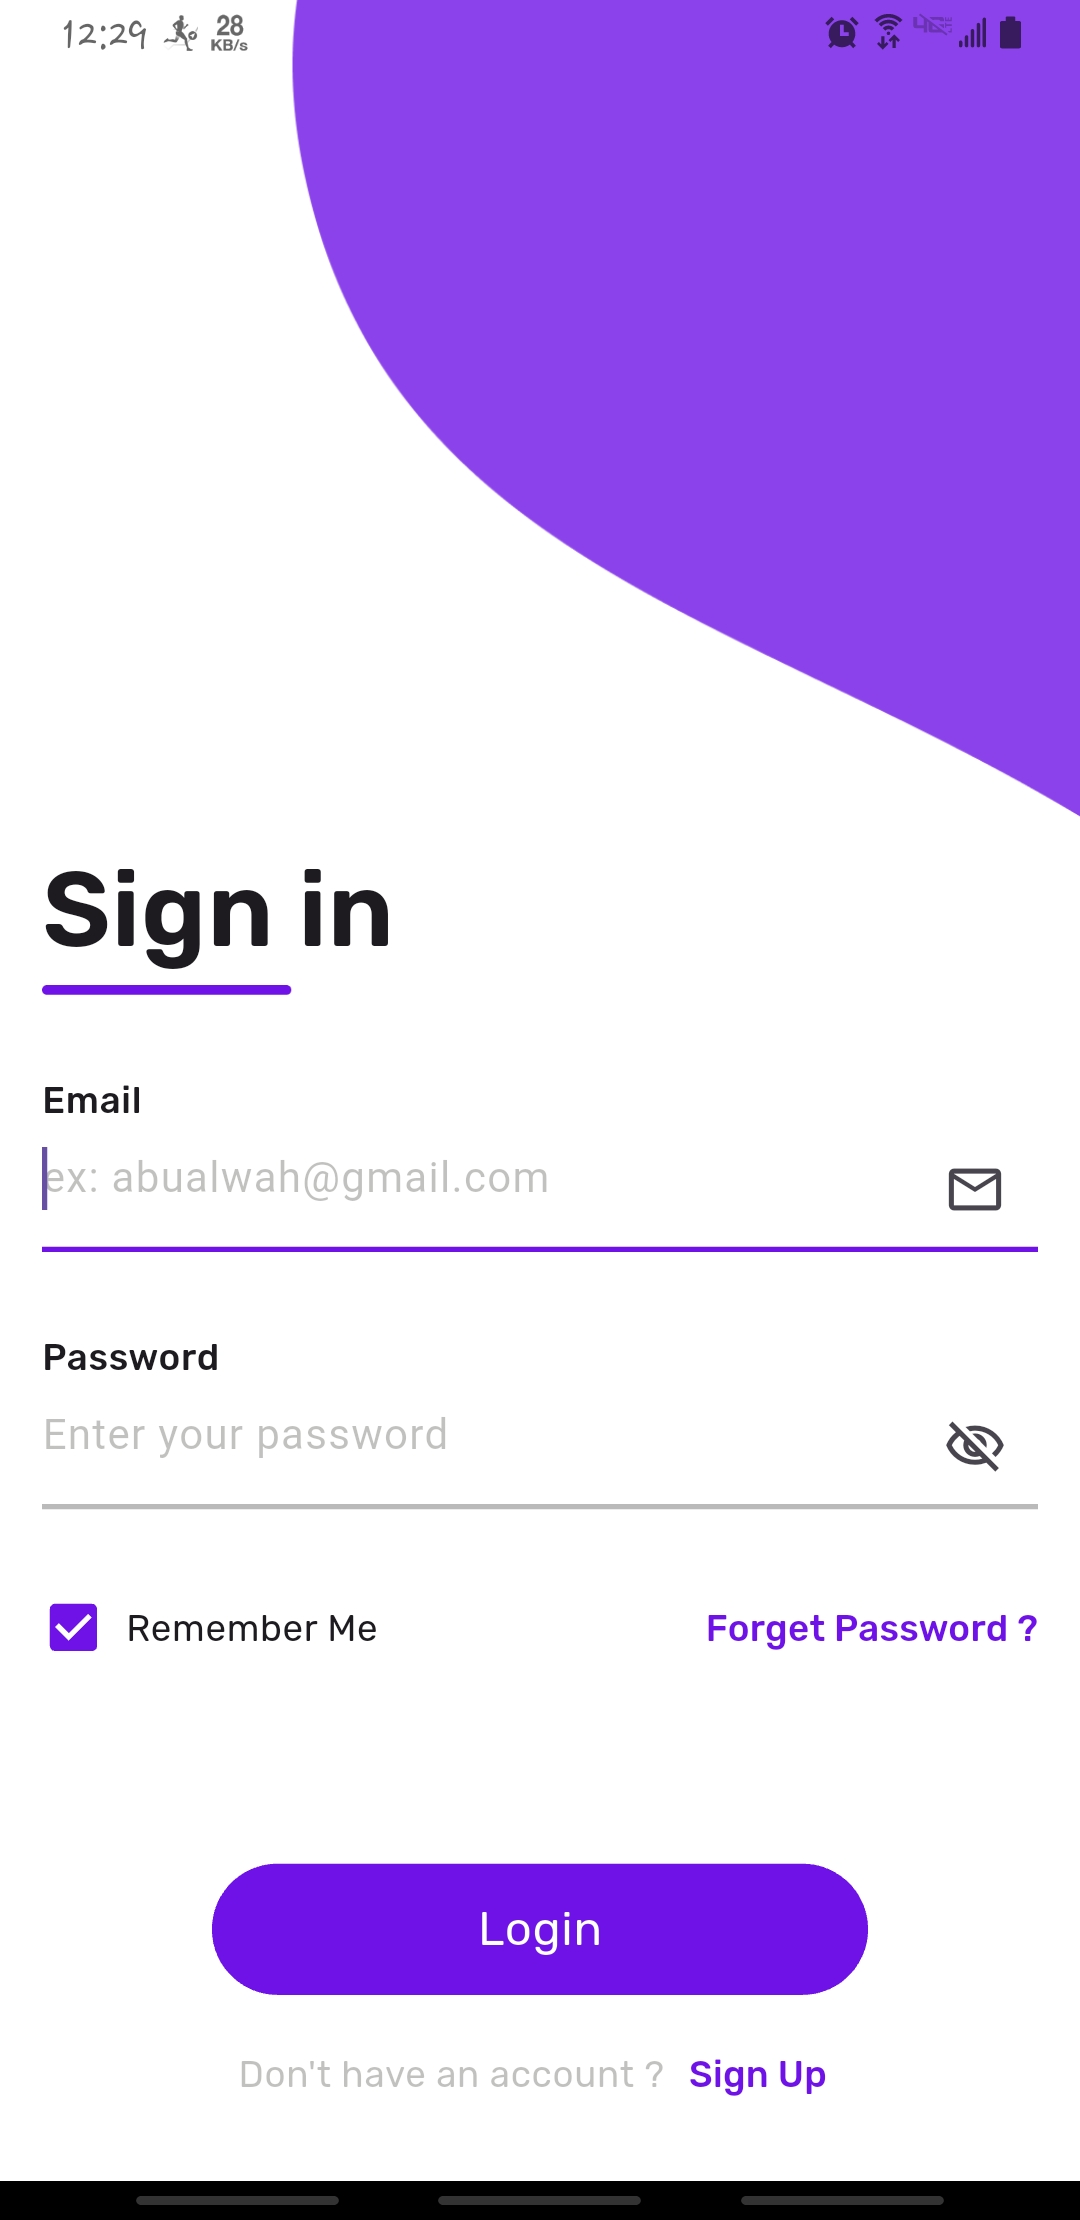
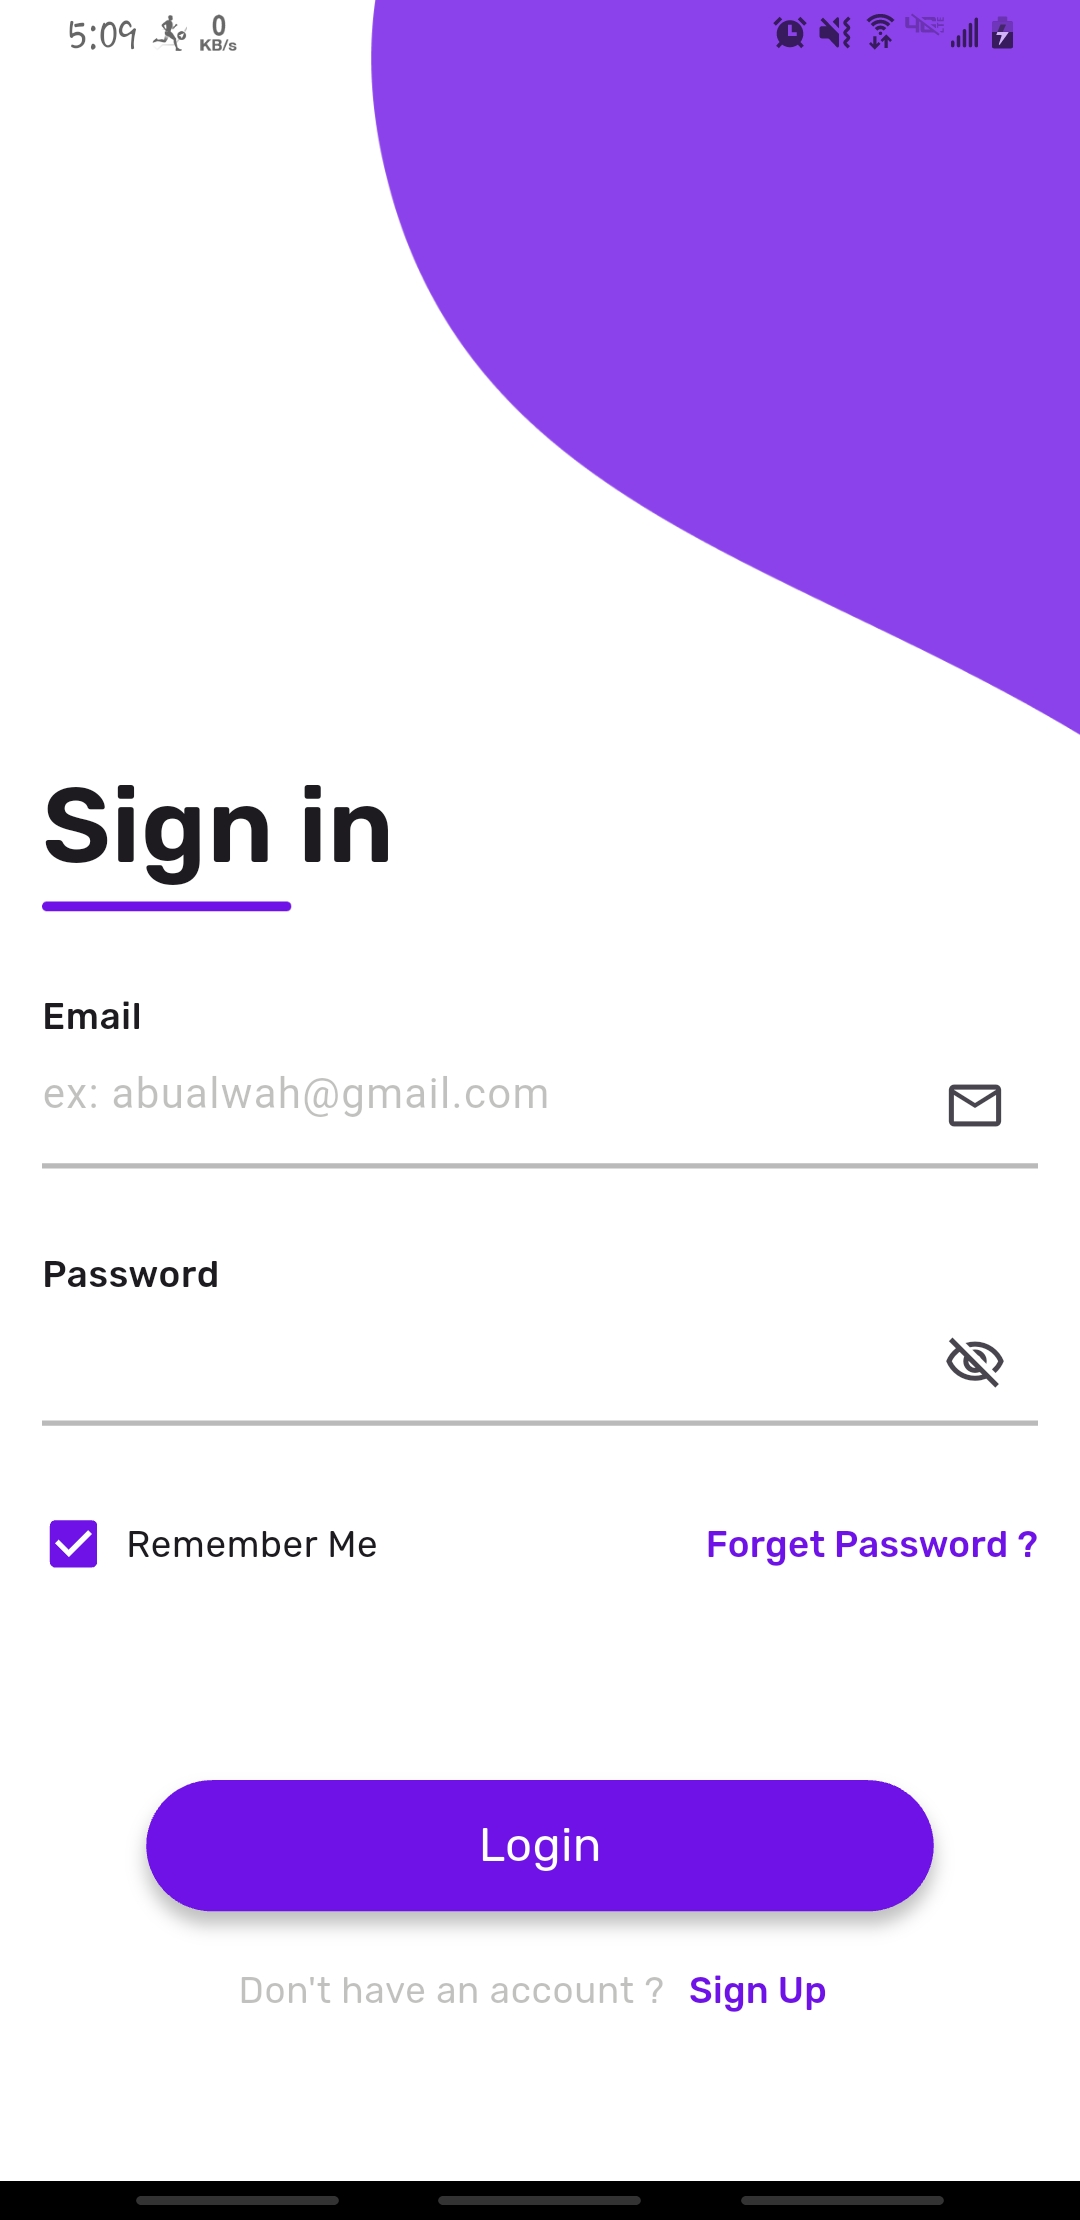
docs: update README with full authentication flow features, badges, and project layout.
- Added Flutter and Dart badges to top header.
- Documented complete screen structure including OTP and Reset Password.
- Updated project tree and screenshots showcase table.

diff --git a/lib/Screens/signin.dart b/lib/Screens/signin.dart
@@ -1,7 +1,7 @@
 import 'package:flutter/material.dart';
 import 'package:gap/gap.dart';
 import 'package:google_fonts/google_fonts.dart';
-import 'package:simple_login_app/Screens/forgetPassword.dart';
+import 'package:simple_login_app/Screens/recoverPassword.dart';
 import 'package:simple_login_app/Screens/signup.dart';
 import 'package:simple_login_app/Widgets/CustomAuthFooter.dart';
 import 'package:simple_login_app/Widgets/CustomAuthHeader.dart';
@@ -80,7 +80,7 @@ class _SigninState extends State<Signin> {
                       Navigator.push(
                         context,
                         MaterialPageRoute(
-                          builder: (context) => const Forgetpassword(),
+                          builder: (context) => const RecoverPassword(),
                         ),
                       );
                     },

diff --git a/lib/Screens/recoverPassword.dart b/lib/Screens/recoverPassword.dart
@@ -6,14 +6,14 @@ import 'package:simple_login_app/Widgets/CustomAuthTitleAndSubtitle.dart';
 import 'package:simple_login_app/Widgets/CustomElevatedButton.dart';
 import 'package:simple_login_app/Widgets/CustomTextFiled.dart';
 
-class Forgetpassword extends StatefulWidget {
-  const Forgetpassword({super.key});
+class RecoverPassword extends StatefulWidget {
+  const RecoverPassword({super.key});
 
   @override
-  State<Forgetpassword> createState() => _ForgetpasswordState();
+  State<RecoverPassword> createState() => _RecoverPasswordState();
 }
 
-class _ForgetpasswordState extends State<Forgetpassword> {
+class _RecoverPasswordState extends State<RecoverPassword> {
   final _formkey = GlobalKey<FormState>();
   final TextEditingController _emailController = TextEditingController();
 

diff --git a/lib/main.dart b/lib/main.dart
@@ -1,5 +1,4 @@
 import 'package:flutter/material.dart';
-import 'package:simple_login_app/Screens/forgetPassword.dart';
 import 'package:simple_login_app/Screens/welcom.dart';
 import 'package:flutter/services.dart';
 

diff --git a/README.md b/README.md
@@ -1,28 +1,46 @@
+<div align="center">
+
 # 📱 Mobile Auth App (Flutter)
 
-A clean and modern user authentication mobile application built with **Flutter** and **Dart**. This project focuses on beautiful, reusable UI widgets and a responsive layout for login and registration screens.
+[![Flutter](https://img.shields.io/badge/Flutter-02569B?style=for-the-badge&logo=flutter&logoColor=white)](https://flutter.dev)
+[![Dart](https://img.shields.io/badge/Dart-0175C2?style=for-the-badge&logo=dart&logoColor=white)](https://dart.dev)
 
+A clean, modern, and full-featured user authentication mobile application built with **Flutter** and **Dart**. This project features a complete authentication flow including onboarding, sign-in, sign-up, password recovery with OTP verification, and password reset screens—all built with modular, reusable components and dynamic state-driven UI interactions.
+
+</div>
 ---
 
-## 📸 Screenshots
+## 📸 Screenshots Showcase
 
-|                                           🚀 Welcome Screen                                           |                                           🔐 Sign In Screen                                           |                                           📝 Sign Up Screen                                           |
-| :---------------------------------------------------------------------------------------------------: | :---------------------------------------------------------------------------------------------------: | :---------------------------------------------------------------------------------------------------: |
-| <img src="https://github.com/AbuAlwah/flutter-login-ui/blob/main/assets/WelcomPage.jpg" width="250"/> | <img src="https://github.com/AbuAlwah/flutter-login-ui/blob/main/assets/SigninPage.jpg" width="250"/> | <img src="https://github.com/AbuAlwah/flutter-login-ui/blob/main/assets/SignupPage.jpg" width="250"/> |
+| 🚀 Welcome | 🔐 Sign In | 📝 Sign Up |
+| :---: | :---: | :---: |
+| <img src="https://github.com/AbuAlwah/flutter-login-ui/blob/17f9548654ec9f222dc44d3ebd3d8e368d3be78a/assets/WelcomPage.jpg" width="220"/> | <img src="https://github.com/AbuAlwah/flutter-login-ui/blob/17f9548654ec9f222dc44d3ebd3d8e368d3be78a/assets/SigninPage.jpg" width="220"/> | <img src="https://github.com/AbuAlwah/flutter-login-ui/blob/17f9548654ec9f222dc44d3ebd3d8e368d3be78a/assets/SignupPage.jpg" width="220"/> |
+
+| 🔑 Recover Password | 📩 OTP Verification | 🔄 Reset Password |
+| :---: | :---: | :---: |
+| <img src="https://github.com/AbuAlwah/flutter-login-ui/blob/main/assets/RecoverPassword.jpg" width="220"/> | <img src="https://github.com/AbuAlwah/flutter-login-ui/blob/main/assets/OTPVerification.jpg" width="220"/> | <img src="https://github.com/AbuAlwah/flutter-login-ui/blob/main/assets/ResetPassword.jpg" width="220"/> |
+
 
 ---
 
 ## ✨ Features
 
-- **Custom Reusable Widgets:** Includes `CustomAuthHeader` and `CustomTextFiled` to minimize code repetition.
-- **Transparent Status Bar:** Customized system overlays to make the app background look fully immersive.
+- **Complete Auth Flow:** Seamless transition across Welcome, Sign In, Sign Up, Recover Password, Email Verification (OTP), and Reset Password screens.
+- **Smart OTP Input Validation:** Powered by `pinput`, featuring a dynamic verification button that activates only when all 4 digits are completely entered.
+- **Clean Navigation Management:** Optimized stack control using `Navigator.pushAndRemoveUntil` and `pushReplacement` to ensure a clean navigation history.
+- **Highly Reusable Architecture:** Custom modular components (`CustomAuthTitleAndSubtitle`, `CustomElevatedButton`, `CustomTextField`, etc.) to enforce DRY (Don't Repeat Yourself) principles.
+- **Modern UI/UX Design:** Immersive layouts, modern typography, custom curved header shapes, and intuitive back-navigation actions (`← Back to Login`, `← Change Email`).
 
 ---
 
-## 🛠 Tech Stack
+## 🛠 Tech Stack & Packages
 
-- **Framework:** Flutter
-- **Language:** Dart
+- **Framework:** [Flutter](https://flutter.dev/)
+- **Language:** [Dart](https://dart.dev/)
+- **Key Packages:**
+  - `pinput`: For custom 4-digit code entry fields.
+  - `google_fonts`: For modern typography (e.g., Rubik).
+  - `gap`: For clean and consistent layout spacing.
 
 ---
 
@@ -31,13 +49,17 @@ A clean and modern user authentication mobile application built with **Flutter**
 ```text
 lib/
 ├── main.dart
-├── screens/
-    ├── welcom.dart
+├── assets/
+├── Screens/
+│   ├── welcom.dart
 │   ├── signin.dart
-│   └── signup.dart
-└── widgets/
+│   ├── signup.dart
+│   ├── recoverPassword.dart
+│   ├── emailVerification.dart
+│   └── resetPassword.dart
+└── Widgets/
     ├── CustomAuthHeader.dart
+    ├── CustomAuthTitleAndSubtitle.dart
     ├── CustomTextFiled.dart
-    ├── CustomContainer.dart
+    ├── CustomElevatedButton.dart
     └── CustomAuthFooter.dart
-```
